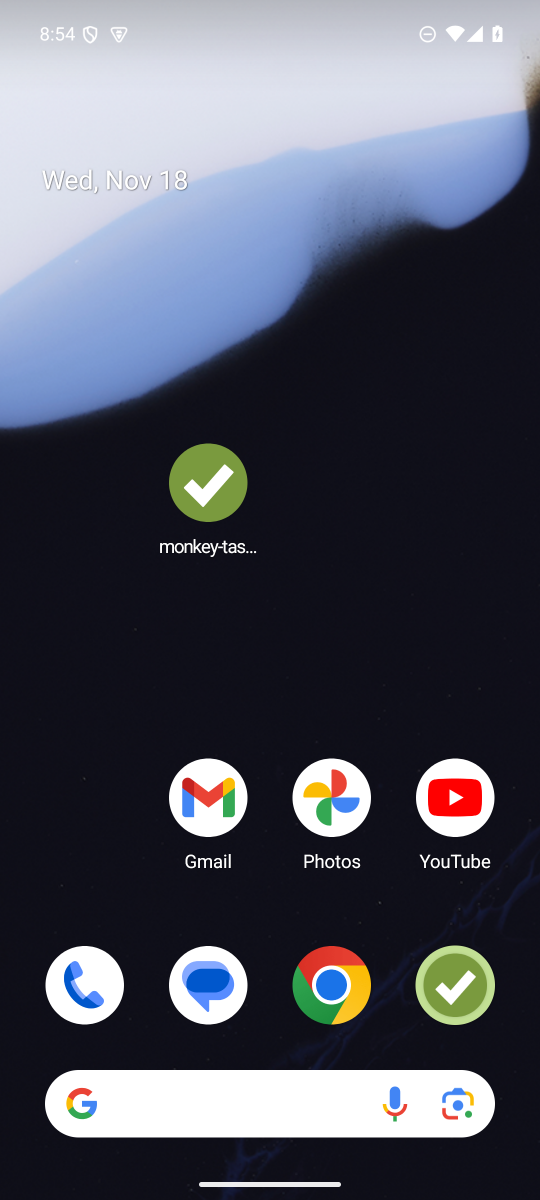
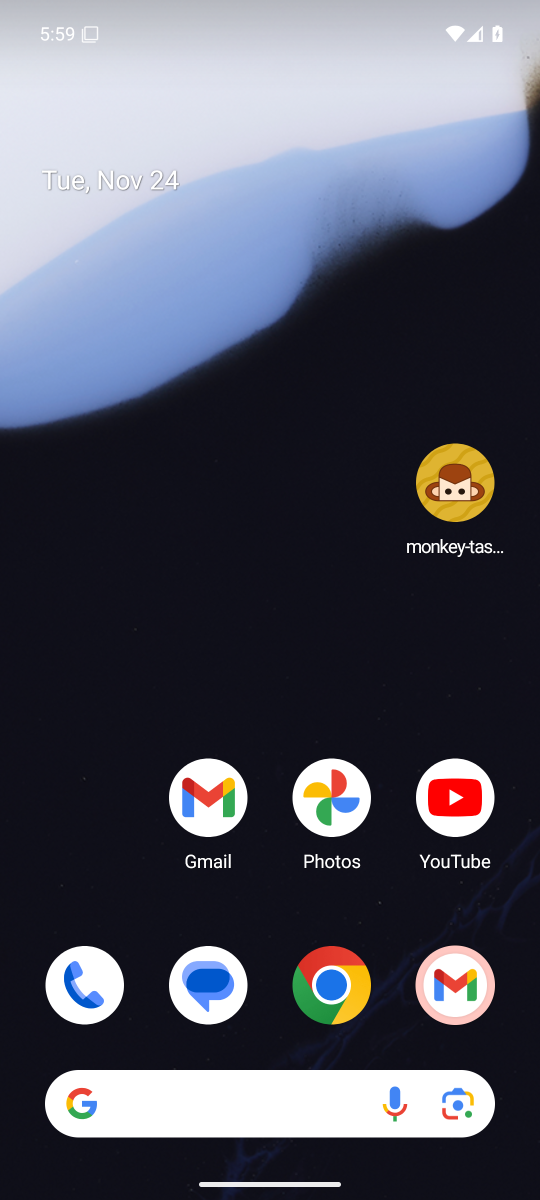
docs(assets): show the monkey on the emulator

diff --git a/docs/adr/20261118-app-icon.md b/docs/adr/20261118-app-icon.md
@@ -112,3 +112,9 @@ The sources are TypeScript now. We deleted the four SVG files. A test
 still guards the tile colour in `app.json`, the splash colour, the safe
 circle and the asset sizes. It also checks that the square tile stays
 full bleed.
+
+On the emulator the launcher mask keeps the mark whole. With Themed
+icons on, the launcher tints the line layer.
+
+![The masked icon on the home screen](../assets/app-icon-home.png)
+![The themed icon](../assets/app-icon-themed.png)
